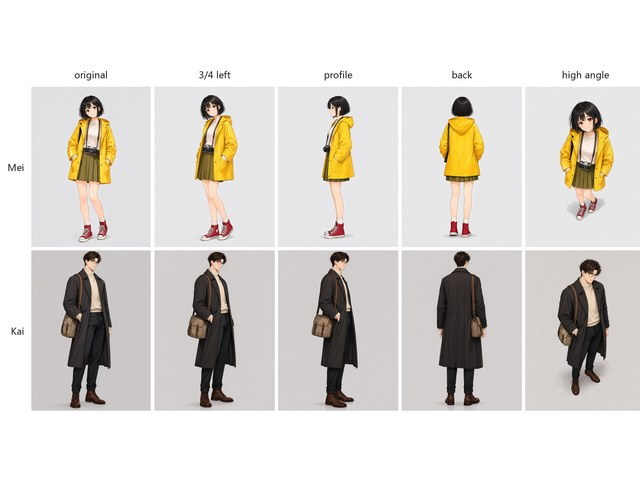
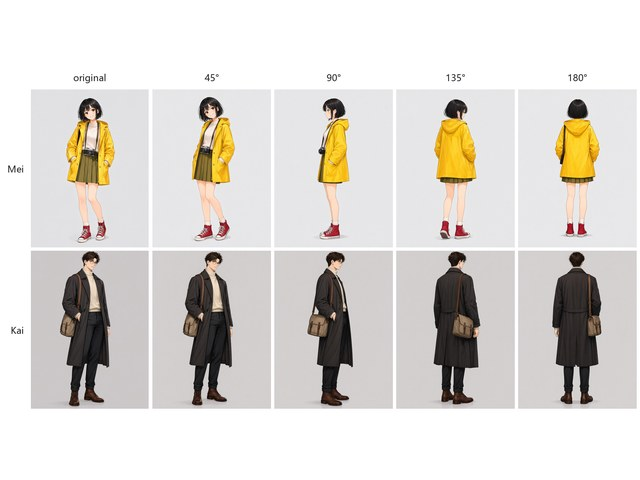
Compare Viewer shows one branch at a time; camera angles in 45° steps
- Compare Viewer: every slide carries its group (the top-level branch's
  name, else the input); with several groups a chip in the toolbar shows
  All or one branch — slider, Wipe and the A menu stay within it, and the
  choice is saved with the workflow
- arbor_qwen_camera_angles: original + 45°, 90°, 135°, 180° for each
  character; one Labels panel names the grid columns, the files and the
  slides. The far side (225°-315°) is left out: the edit model does not
  reliably tell left from right, and mirrored views were dropped

diff --git a/web/slider.js b/web/slider.js
@@ -83,7 +83,9 @@ class Layer {
 class SliderView {
   constructor(node) {
     this.node = node;
-    this.slides = [];
+    this.all = [];      // every slide the node sent
+    this.slides = [];   // the ones of the chosen group
+    this.group = node.properties?.arbor_group || "";  // "" = all
     this.index = 0;     // flip: shown slide; wipe: B
     this.a = 0;         // wipe: A
     this.mode = node.properties?.arbor_mode || "flip";
@@ -108,6 +110,8 @@ class SliderView {
       const m = e.target?.dataset?.m;
       if (m) this.setMode(m);
     });
+    this.chipG = el("button", "arb-chip");
+    this.chipG.addEventListener("click", () => this.pickGroup());
     this.chipA = el("button", "arb-chip");
     this.chipA.addEventListener("click", () => this.pickA());
     this.info = el("span", "arb-sub");
@@ -123,7 +127,7 @@ class SliderView {
       const s = this.slides[this.index];
       if (s) window.open(viewURL(s), "_blank");
     });
-    bar.append(this.seg, this.chipA, this.info, el("span", "arb-sp"), this.scaleBtn, this.openBtn);
+    bar.append(this.seg, this.chipG, this.chipA, this.info, el("span", "arb-sp"), this.scaleBtn, this.openBtn);
 
     const stage = (this.stage = el("div", "arb-cmp-stage"));
     const meta = () => { this.sync(true); this.layout(); };
@@ -271,7 +275,24 @@ class SliderView {
   }
 
   setSlides(slides) {
-    this.slides = slides || [];
+    this.all = slides || [];
+    this.showGroup(this.group);
+  }
+
+  groups() {
+    return [...new Set(this.all.map((s) => s.group).filter((g) => g != null))];
+  }
+
+  /* show one group ("" = all); a group the new slides don't have falls back to all */
+  showGroup(g) {
+    if (g && !this.groups().includes(g)) g = "";
+    if (g !== this.group) {
+      this.group = g;
+      this.node.properties.arbor_group = g;
+      markChanged(this.node);
+      this.index = this.a = 0;
+    }
+    this.slides = g ? this.all.filter((s) => s.group === g) : this.all;
     const n = this.slides.length;
     this.index = Math.min(this.index, Math.max(0, n - 1));
     this.a = Math.min(this.a, Math.max(0, n - 1));
@@ -289,6 +310,18 @@ class SliderView {
     if (i === this.index) return;
     this.index = i;
     this.render();
+  }
+
+  pickGroup() {
+    const groups = this.groups();
+    if (groups.length < 2) return;
+    const first = (g) => this.all.find((s) => (!g || s.group === g) && (s.kind === "image" || !s.kind));
+    const count = (g) => this.all.filter((s) => !g || s.group === g).length;
+    showMenu(this.chipG, ["", ...groups].map((g) => ({
+      label: `${g || t("allGroups")}  (${count(g)})`,
+      img: first(g) ? viewURL(first(g)) : null, on: g === this.group,
+      pick: () => this.showGroup(g),
+    })));
   }
 
   pickA() {
@@ -498,6 +531,13 @@ class SliderView {
     this.empty.textContent = t("sliderEmpty");
     this.empty.style.display = n ? "none" : "";
     this.chipA.style.display = wipe && n ? "" : "none";
+    const grouped = this.groups().length > 1;
+    this.chipG.style.display = grouped ? "" : "none";
+    if (grouped) {
+      this.chipG.title = t("chooseGroup");
+      this.chipG.innerHTML = `<span></span>`;
+      this.chipG.firstChild.textContent = `${this.group || t("allGroups")} ▾`;
+    }
     this.scrub.style.visibility = n > 1 ? "" : "hidden";
 
     const cur = this.slides[this.index];

diff --git a/web/arbor_common.js b/web/arbor_common.js
@@ -309,6 +309,7 @@ const STRINGS = {
   en: {
     flip: "Flip", wipe: "Wipe", real: "Real", fit: "Fit",
     chooseA: "Choose A",
+    allGroups: "All", chooseGroup: "Show one branch (or one input, when the branches have no names) — or all of them",
     scaleTip: "Real: keep relative sizes · Fit: fill the stage",
     openTip: "Open the current file in a new tab",
     sliderEmpty: "Connect images, videos or audio and run to compare",
@@ -359,6 +360,7 @@ const STRINGS = {
   zh: {
     flip: "切换", wipe: "对比", real: "原比例", fit: "填充",
     chooseA: "选择 A",
+    allGroups: "全部", chooseGroup: "只看一个分支（分支没有名字时按输入区分）——或全部",
     scaleTip: "原比例：保持图片之间的相对大小 · 填充：每张图铺满画面",
     openTip: "在新标签页打开当前文件",
     sliderEmpty: "接入图片、视频或音频并运行后即可对比",

diff --git a/arbor/nodes_image.py b/arbor/nodes_image.py
@@ -18,36 +18,40 @@ MAX_SLIDES = 64
 
 # ======================================================================= Compare Viewer
 
-def _slides(slot: str, value, labels: T.DataTree | None = None) -> list[tuple[str, object, str]]:
-    """(kind, value, label) for everything a socket value holds that can be compared: every frame
-    of an image batch, every video, every clip of an audio batch — a batch, a list or a tree.
+def _slides(slot: str, value, labels: T.DataTree | None = None) -> list[tuple[str, object, str, str]]:
+    """(kind, value, label, group) for everything a socket value holds that can be compared: every
+    frame of an image batch, every video, every clip of an audio batch — a batch, a list or a tree.
     Items of a named branch are labelled with its name, the rest with the slot name; with
     ``labels`` (matched branch by branch, item by item) an item's label follows the branch name.
-    A label shared by several slides is numbered."""
+    A label shared by several slides is numbered. The group — what the viewer can show on its
+    own — is the top-level branch's name, else the slot."""
     tree = to_tree(value)
     found = []
     for b, (p, items) in enumerate(tree.items()):
         branch = tree.label(p, label_of)
+        group = tree.label(p[:1], label_of) or slot
         for j, v in enumerate(items):
             own = T.match_item(labels, b, j) if labels else None
             own = label_of(own) if own is not None else None
             lab = " · ".join(x for x in (branch, own) if x) or slot
             if is_image(v):
-                found += [("image", v[i], lab) for i in range(v.shape[0])]
+                found += [("image", v[i], lab, group) for i in range(v.shape[0])]
             elif is_video(v):
-                found.append(("video", v, lab))
+                found.append(("video", v, lab, group))
             elif is_audio(v):
-                found += [("audio", clip, lab) for clip in media.audio_clips(v)]
-    total = {lab: sum(1 for *_, l in found if l == lab) for *_, lab in found}
+                found += [("audio", clip, lab, group) for clip in media.audio_clips(v)]
+    total: dict[str, int] = {}
+    for _, _, lab, _ in found:
+        total[lab] = total.get(lab, 0) + 1
     seen: dict[str, int] = {}
     out = []
-    for kind, v, lab in found:
+    for kind, v, lab, group in found:
         seen[lab] = seen.get(lab, 0) + 1
-        out.append((kind, v, lab if total[lab] == 1 else f"{lab} · {seen[lab]}/{total[lab]}"))
+        out.append((kind, v, lab if total[lab] == 1 else f"{lab} · {seen[lab]}/{total[lab]}", group))
     return out
 
 
-def _slide(kind: str, v, label: str) -> dict:
+def _slide(kind: str, v, label: str, group: str) -> dict:
     """The UI payload of one slide: a /view reference plus what the viewer needs to lay it out."""
     if kind == "image":
         ref = save_temp(to_pil(v), "compare", fmt="png")
@@ -58,7 +62,7 @@ def _slide(kind: str, v, label: str) -> dict:
         waveform, rate = v
         ref = media.audio_ref(waveform, rate, "compare")
         info = {"dur": waveform.shape[-1] / rate, "peaks": media.peaks(waveform)}
-    return {**ref, "kind": kind, "label": label, **info}
+    return {**ref, "kind": kind, "label": label, "group": group, **info}
 
 
 class ImageSlider(IO.ComfyNode):
@@ -89,8 +93,8 @@ class ImageSlider(IO.ComfyNode):
         label_tree = to_tree(labels) if connected(labels) else None
         slides = []
         for name, value in (images or {}).items():
-            for kind, v, label in _slides(name, value, label_tree)[:MAX_SLIDES - len(slides)]:
-                slides.append(_slide(kind, v, label))
+            for kind, v, label, group in _slides(name, value, label_tree)[:MAX_SLIDES - len(slides)]:
+                slides.append(_slide(kind, v, label, group))
         return IO.NodeOutput(ui={"arbor_slider": [{"slides": slides}]})
 
 

diff --git a/tools/node_info.py b/tools/node_info.py
@@ -39,7 +39,10 @@ node("Arbor_ImageSlider", en=dict(
 - Double-click the stage (or the ↗ button) to open the current file in a new tab.
 
 ## Labels
-Slides take the name of their branch. Connect *labels* to name the items too: a tree of pictures by person (`Mei`, `Kai`) with the labels `original, 3/4 left, profile, back …` flips through as *Mei · original*, *Mei · 3/4 left* … *Kai · back*. Template: *arbor_qwen_camera_angles*.
+Slides take the name of their branch. Connect *labels* to name the items too: a tree of pictures by person (`Mei`, `Kai`) with the labels `original, 45°, 90° …` flips through as *Mei · original*, *Mei · 45°* … *Kai · 315°*.
+
+## One branch at a time
+When the slides come from several named branches, a chip in the toolbar picks the branch to show — *All*, *Mei* or *Kai* (the top-level branches; unnamed trees are split by input instead): the slider, Wipe and the A menu then stay within that branch. The choice is saved with the workflow. Template: *arbor_qwen_camera_angles*.
 
 ## Tips
 - Feed it a native list (e.g. the per-item results of an XY run): it receives the whole list at once instead of running per item.
@@ -62,7 +65,10 @@ Slides take the name of their branch. Connect *labels* to name the items too: a 
 - 双击画面（或点 ↗ 按钮）在新标签页打开当前文件。
 
 ## 标签
-每页默认用所在分支的名字。接上 *标签* 可以给每一项命名：按人物分支的图片（`Mei`、`Kai`）配上标签 `original, 3/4 left, profile, back ……`，翻页时显示 *Mei · original*、*Mei · 3/4 left* …… *Kai · back*。模板：*arbor_qwen_camera_angles*。
+每页默认用所在分支的名字。接上 *标签* 可以给每一项命名：按人物分支的图片（`Mei`、`Kai`）配上标签 `original, 45°, 90° ……`，翻页时显示 *Mei · original*、*Mei · 45°* …… *Kai · 315°*。
+
+## 一次看一个分支
+内容来自多个有名字的分支时，工具栏会出现一个分支胶囊，可选择 *全部*、*Mei* 或 *Kai*（顶层分支；没有名字的数据树按输入区分）：滑条、对比模式和 A 菜单都只在这个分支里切换。选择会随工作流保存。模板：*arbor_qwen_camera_angles*。
 
 ## 提示
 - 可以直接接原生列表（例如 XY 批量运行的逐项结果），节点会一次收下整个列表，而不是逐项运行。

diff --git a/tests/test_offline.py b/tests/test_offline.py
@@ -640,6 +640,9 @@ def test_image_nodes():
     labelled = run(nodes_image.ImageSlider, images={"image0": [angles]}, labels=["original", "back"]).ui
     assert [s["label"] for s in labelled["arbor_slider"][0]["slides"]] == [
         "Mei · original", "Mei · back", "Kai · original", "Kai · back"], "one label list serves every branch"
+    assert [s["group"] for s in labelled["arbor_slider"][0]["slides"]] == ["Mei", "Mei", "Kai", "Kai"], \
+        "the viewer can show one person at a time"
+    assert {s["group"] for s in slides} == {"image0", "image1"}, "unnamed: one group per input"
     slot = nodes_image.ImageSlider.define_schema().inputs[0].template.input
     assert "IMAGE" in slot.get_io_type() and "ARBOR_TREE" in slot.get_io_type()
 

diff --git a/web/docs/Arbor_ImageSlider.md b/web/docs/Arbor_ImageSlider.md
@@ -19,7 +19,10 @@ Compare images, videos and audio of any size: flip through them with the slider,
 - Double-click the stage (or the ↗ button) to open the current file in a new tab.
 
 ## Labels
-Slides take the name of their branch. Connect *labels* to name the items too: a tree of pictures by person (`Mei`, `Kai`) with the labels `original, 3/4 left, profile, back …` flips through as *Mei · original*, *Mei · 3/4 left* … *Kai · back*. Template: *arbor_qwen_camera_angles*.
+Slides take the name of their branch. Connect *labels* to name the items too: a tree of pictures by person (`Mei`, `Kai`) with the labels `original, 45°, 90° …` flips through as *Mei · original*, *Mei · 45°* … *Kai · 315°*.
+
+## One branch at a time
+When the slides come from several named branches, a chip in the toolbar picks the branch to show — *All*, *Mei* or *Kai* (the top-level branches; unnamed trees are split by input instead): the slider, Wipe and the A menu then stay within that branch. The choice is saved with the workflow. Template: *arbor_qwen_camera_angles*.
 
 ## Tips
 - Feed it a native list (e.g. the per-item results of an XY run): it receives the whole list at once instead of running per item.

diff --git a/web/docs/Arbor_ImageSlider/en.md b/web/docs/Arbor_ImageSlider/en.md
@@ -19,7 +19,10 @@ Compare images, videos and audio of any size: flip through them with the slider,
 - Double-click the stage (or the ↗ button) to open the current file in a new tab.
 
 ## Labels
-Slides take the name of their branch. Connect *labels* to name the items too: a tree of pictures by person (`Mei`, `Kai`) with the labels `original, 3/4 left, profile, back …` flips through as *Mei · original*, *Mei · 3/4 left* … *Kai · back*. Template: *arbor_qwen_camera_angles*.
+Slides take the name of their branch. Connect *labels* to name the items too: a tree of pictures by person (`Mei`, `Kai`) with the labels `original, 45°, 90° …` flips through as *Mei · original*, *Mei · 45°* … *Kai · 315°*.
+
+## One branch at a time
+When the slides come from several named branches, a chip in the toolbar picks the branch to show — *All*, *Mei* or *Kai* (the top-level branches; unnamed trees are split by input instead): the slider, Wipe and the A menu then stay within that branch. The choice is saved with the workflow. Template: *arbor_qwen_camera_angles*.
 
 ## Tips
 - Feed it a native list (e.g. the per-item results of an XY run): it receives the whole list at once instead of running per item.

diff --git a/web/docs/Arbor_ImageSlider/zh.md b/web/docs/Arbor_ImageSlider/zh.md
@@ -19,7 +19,10 @@
 - 双击画面（或点 ↗ 按钮）在新标签页打开当前文件。
 
 ## 标签
-每页默认用所在分支的名字。接上 *标签* 可以给每一项命名：按人物分支的图片（`Mei`、`Kai`）配上标签 `original, 3/4 left, profile, back ……`，翻页时显示 *Mei · original*、*Mei · 3/4 left* …… *Kai · back*。模板：*arbor_qwen_camera_angles*。
+每页默认用所在分支的名字。接上 *标签* 可以给每一项命名：按人物分支的图片（`Mei`、`Kai`）配上标签 `original, 45°, 90° ……`，翻页时显示 *Mei · original*、*Mei · 45°* …… *Kai · 315°*。
+
+## 一次看一个分支
+内容来自多个有名字的分支时，工具栏会出现一个分支胶囊，可选择 *全部*、*Mei* 或 *Kai*（顶层分支；没有名字的数据树按输入区分）：滑条、对比模式和 A 菜单都只在这个分支里切换。选择会随工作流保存。模板：*arbor_qwen_camera_angles*。
 
 ## 提示
 - 可以直接接原生列表（例如 XY 批量运行的逐项结果），节点会一次收下整个列表，而不是逐项运行。
